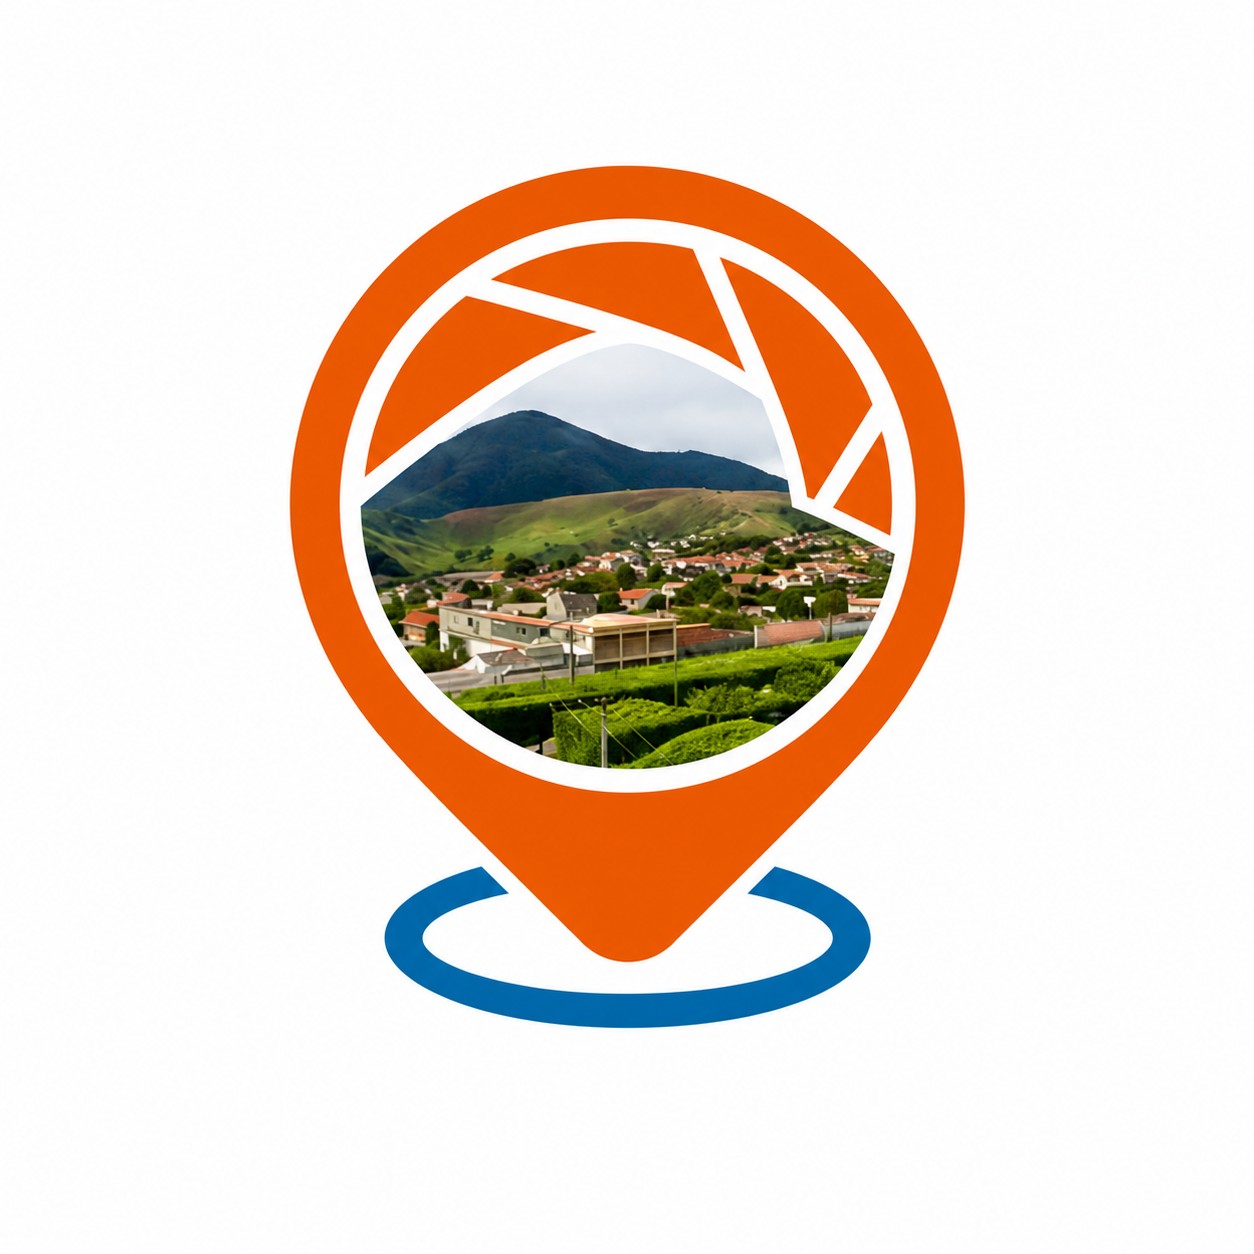
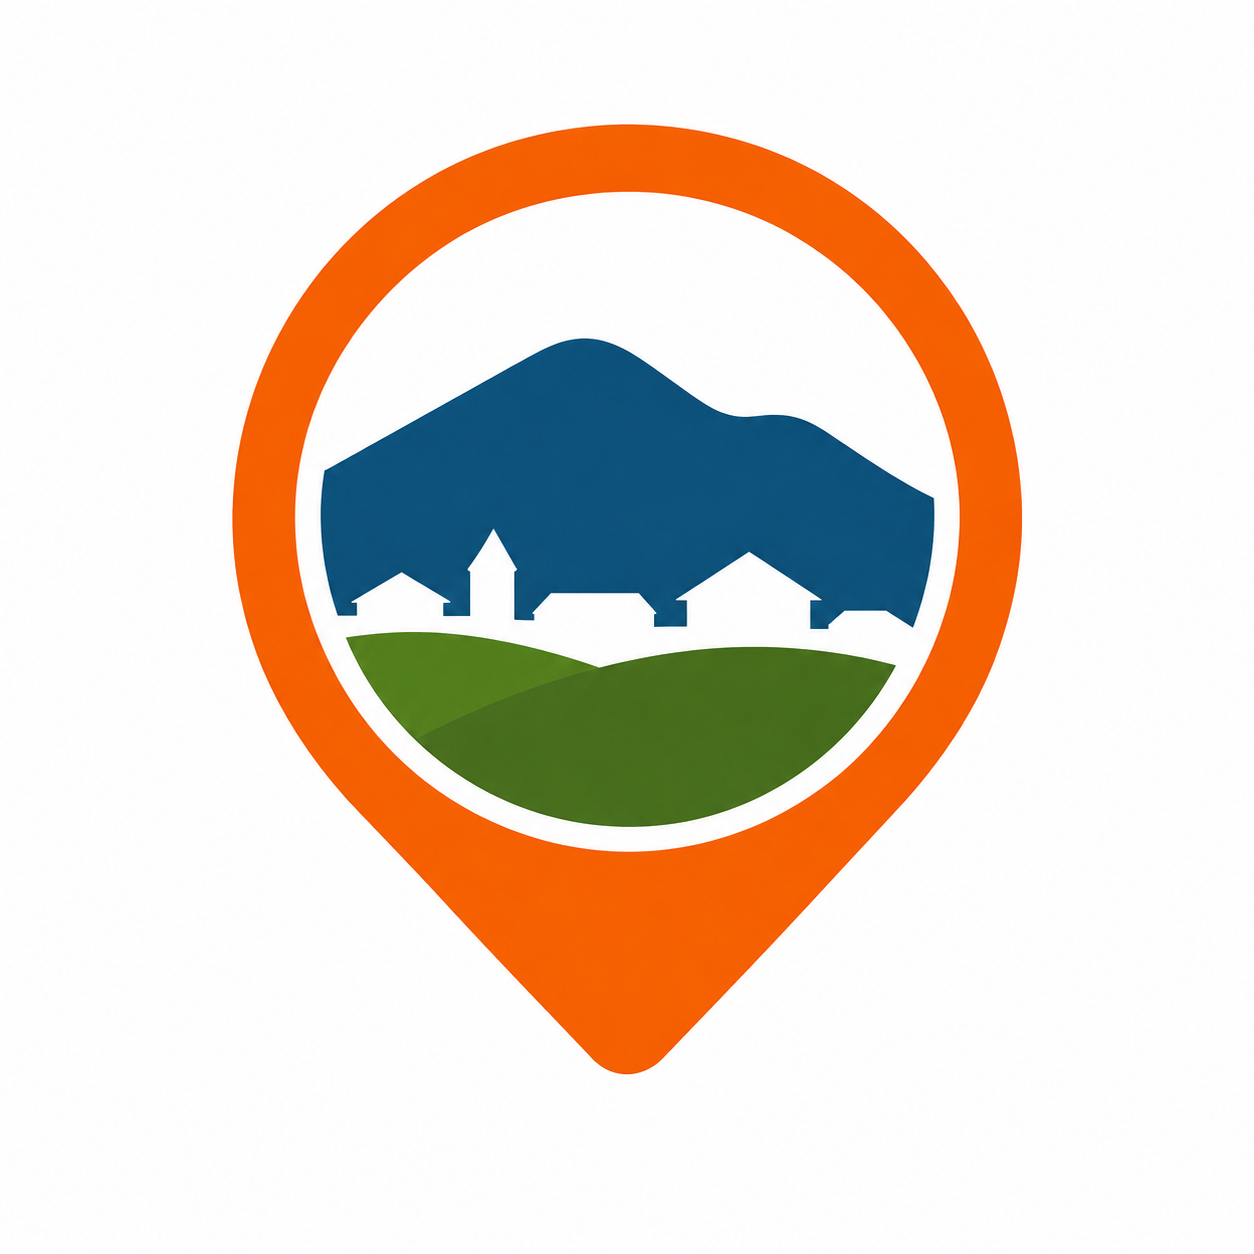
Finaliza identidade e fluxo do ClickCidade

diff --git a/assets/styles.css b/assets/styles.css
@@ -66,12 +66,12 @@ button:disabled {
   align-items: center;
   justify-content: center;
   border: 2px solid #fff;
-  border-radius: 50%;
+  border-radius: var(--radius);
   background-color: #fff;
-  background-image: url("./clickcidade-logo.png?v=20260627-map-colors");
-  background-position: -21px -32px;
+  background-image: url("./clickcidade-app-icon.png?v=20260628-final-logo");
+  background-position: center;
   background-repeat: no-repeat;
-  background-size: 220px auto;
+  background-size: cover;
   box-shadow: 0 3px 10px rgba(38, 50, 56, .16);
 }
 
@@ -182,32 +182,37 @@ a.secondary-button {
 }
 
 .citizen-header {
-  padding: 14px 2px 18px;
+  padding: 6px 0 14px;
 }
 
-.citizen-header .brand-mark {
-  width: 68px;
-  height: 68px;
-  background-position: -30px -46px;
-  background-size: 320px auto;
+.mobile-logo-frame {
+  width: calc(100% - 24px);
+  max-width: 536px;
+  aspect-ratio: 3 / 1;
+  overflow: hidden;
+  margin: 0 auto;
 }
 
-.citizen-header h1 {
-  margin: 12px 0 4px;
-  font-size: 34px;
-  line-height: 1.05;
-  letter-spacing: 0;
+.citizen-mobile-logo {
+  display: block;
+  width: 100%;
+  height: 100%;
+  object-fit: contain;
 }
 
-.citizen-header p {
-  margin: 0;
-  color: var(--muted);
-  font-size: 15px;
+.visually-hidden {
+  position: absolute !important;
+  width: 1px !important;
+  height: 1px !important;
+  overflow: hidden !important;
+  clip: rect(0 0 0 0) !important;
+  white-space: nowrap !important;
+  clip-path: inset(50%) !important;
 }
 
 .install-button {
   min-height: 38px;
-  margin-top: 12px;
+  margin-top: 8px;
   padding: 8px 12px;
 }
 
@@ -293,6 +298,20 @@ a.secondary-button {
 
 .photo-button {
   width: 100%;
+}
+
+.citizen-form .photo-button,
+.citizen-form #locationButton {
+  border-color: var(--primary);
+  background: var(--primary);
+  color: #fff;
+}
+
+.citizen-form .photo-button:hover,
+.citizen-form #locationButton:hover {
+  border-color: var(--primary-dark);
+  background: var(--primary-dark);
+  color: #fff;
 }
 
 .photo-preview {
@@ -408,8 +427,6 @@ a.secondary-button {
 .login-box .brand-mark {
   width: 60px;
   height: 60px;
-  background-position: -27px -41px;
-  background-size: 285px auto;
 }
 
 .login-box .primary-button {
@@ -544,7 +561,7 @@ a.secondary-button {
 }
 
 .stat-card:nth-child(4) {
-  border-top: 3px solid var(--blue);
+  border-top: 3px solid #79513a;
 }
 
 .stat-card span {

diff --git a/index.html b/index.html
@@ -9,17 +9,16 @@
   <title>ClickCidade</title>
   <link rel="manifest" href="./manifest.webmanifest">
   <link rel="apple-touch-icon" href="./assets/clickcidade-app-icon.png">
-  <link rel="stylesheet" href="./assets/styles.css?v=20260627-map-colors">
+  <link rel="stylesheet" href="./assets/styles.css?v=20260628-final-logo">
 </head>
 <body class="citizen-page">
   <main class="citizen-shell">
     <header class="citizen-header">
-      <div>
-        <span class="brand-mark" aria-label="ClickCidade"></span>
-        <h1>ClickCidade</h1>
-        <p>FotoDenuncia de lixo, foco de dengue e terreno baldio.</p>
-        <button class="secondary-button install-button" type="button" id="installButton" hidden>Instalar ClickCidade</button>
+      <div class="mobile-logo-frame">
+        <img class="citizen-mobile-logo" src="./assets/clickcidade-mobile-logo.png" alt="ClickCidade - FotoDenuncia">
       </div>
+      <h1 class="visually-hidden">ClickCidade</h1>
+      <button class="secondary-button install-button" type="button" id="installButton" hidden>Instalar ClickCidade</button>
     </header>
 
     <form class="citizen-form" id="reportForm">
@@ -51,12 +50,12 @@
       <section class="citizen-card">
         <div class="location-row">
           <div>
-            <span class="field-label">Localizacao</span>
-            <p id="locationStatus">Aguardando GPS.</p>
+            <span class="field-label">Localizacao obrigatoria</span>
+            <p id="locationStatus">Toque em Usar GPS para confirmar o local.</p>
           </div>
           <button class="secondary-button" type="button" id="locationButton">Usar GPS</button>
         </div>
-        <label class="field-label small-label" for="referenceInput">Referencia, se precisar</label>
+        <label class="field-label small-label" for="referenceInput">Referencia opcional</label>
         <textarea id="referenceInput" rows="2" maxlength="240" placeholder="Ex.: perto da escola, rua, bairro ou ponto conhecido"></textarea>
       </section>
 
@@ -85,7 +84,7 @@
     </section>
   </main>
 
-  <script src="./assets/runtime-config.js?v=20260627-map-colors"></script>
-  <script src="./assets/app.js?v=20260627-map-colors"></script>
+  <script src="./assets/runtime-config.js?v=20260628-final-logo"></script>
+  <script src="./assets/app.js?v=20260628-final-logo"></script>
 </body>
 </html>

diff --git a/painel.html b/painel.html
@@ -6,7 +6,7 @@
   <meta name="theme-color" content="#263238">
   <title>Painel ClickCidade</title>
   <link rel="stylesheet" href="https://unpkg.com/leaflet@1.9.4/dist/leaflet.css" integrity="sha256-p4NxAoJBhIIN+hmNHrzRCf9tD/miZyoHS5obTRR9BMY=" crossorigin="">
-  <link rel="stylesheet" href="./assets/styles.css?v=20260627-map-colors">
+  <link rel="stylesheet" href="./assets/styles.css?v=20260628-final-logo">
 </head>
 <body class="panel-page">
   <div class="login-screen" id="loginScreen">
@@ -52,9 +52,9 @@
 
       <section class="stats-grid" id="overview">
         <article class="stat-card"><span>Total</span><strong id="statTotal">0</strong></article>
-        <article class="stat-card"><span>Novas</span><strong id="statNew">0</strong></article>
+        <article class="stat-card"><span>Lixo</span><strong id="statTrash">0</strong></article>
         <article class="stat-card"><span>Dengue</span><strong id="statDengue">0</strong></article>
-        <article class="stat-card"><span>Sem GPS</span><strong id="statNoGps">0</strong></article>
+        <article class="stat-card"><span>Terreno baldio</span><strong id="statLand">0</strong></article>
       </section>
 
       <section class="attention-section" id="attentionPanel">
@@ -271,8 +271,8 @@
 
   <script src="https://unpkg.com/leaflet@1.9.4/dist/leaflet.js" integrity="sha256-20nQCchB9co0qIjJZRGuk2/Z9VM+kNiyxNV1lvTlZBo=" crossorigin=""></script>
   <script src="https://unpkg.com/leaflet.heat@0.2.0/dist/leaflet-heat.js" integrity="sha256-65UqrlgGoRAnKfKRuriH3eeDrOhZgZo1SCenduc+SGo=" crossorigin=""></script>
-  <script src="./assets/runtime-config.js?v=20260627-map-colors"></script>
+  <script src="./assets/runtime-config.js?v=20260628-final-logo"></script>
   <script src="./assets/carmo-territorios-data.js"></script>
-  <script src="./assets/painel.js?v=20260627-map-colors"></script>
+  <script src="./assets/painel.js?v=20260628-final-logo"></script>
 </body>
 </html>

diff --git a/sw.js b/sw.js
@@ -1,12 +1,13 @@
-var CACHE_NAME = "clickcidade-20260627-map-colors";
+var CACHE_NAME = "clickcidade-20260628-final-logo";
 var APP_SHELL = [
   "./",
   "./index.html",
   "./manifest.webmanifest",
-  "./assets/styles.css?v=20260627-map-colors",
-  "./assets/runtime-config.js?v=20260627-map-colors",
-  "./assets/app.js?v=20260627-map-colors",
+  "./assets/styles.css?v=20260628-final-logo",
+  "./assets/runtime-config.js?v=20260628-final-logo",
+  "./assets/app.js?v=20260628-final-logo",
   "./assets/clickcidade-logo.png",
+  "./assets/clickcidade-mobile-logo.png",
   "./assets/clickcidade-app-icon.png"
 ];
 

diff --git a/assets/painel.js b/assets/painel.js
@@ -291,9 +291,9 @@
   function buildStats(reports) {
     return {
       total: reports.length,
-      newCount: reports.filter(function (item) { return item.status === "nova"; }).length,
+      trash: reports.filter(function (item) { return item.category === "lixo"; }).length,
       dengue: reports.filter(function (item) { return item.category === "dengue"; }).length,
-      noGps: reports.filter(function (item) { return !(item.latitude && item.longitude); }).length
+      land: reports.filter(function (item) { return item.category === "terreno"; }).length
     };
   }
 
@@ -454,9 +454,9 @@
   function renderStats() {
     var stats = buildStats(state.reports);
     $("statTotal").textContent = stats.total;
-    $("statNew").textContent = stats.newCount;
+    $("statTrash").textContent = stats.trash;
     $("statDengue").textContent = stats.dengue;
-    $("statNoGps").textContent = stats.noGps;
+    $("statLand").textContent = stats.land;
     $("listSummary").textContent = state.filtered.length + " de " + state.reports.length + " denuncias";
     $("mapSummary").textContent = state.filtered.filter(function (item) { return item.latitude && item.longitude; }).length + " pontos com GPS no mapa.";
   }

diff --git a/assets/app.js b/assets/app.js
@@ -147,7 +147,7 @@
     $("reportForm").reset();
     $("photoPreview").hidden = true;
     $("photoPreview").removeAttribute("src");
-    $("locationStatus").textContent = "Aguardando GPS.";
+    $("locationStatus").textContent = "Toque em Usar GPS para confirmar o local.";
     state.photoDataUrl = "";
     state.photoName = "";
     state.photoMime = "";
@@ -241,8 +241,8 @@
       return;
     }
 
-    if (!state.location && reference.length < 4) {
-      setMessage("Use o GPS ou informe uma referencia.", "error");
+    if (!state.location) {
+      setMessage("Confirme a localizacao pelo GPS antes de enviar.", "error");
       return;
     }
 

diff --git a/assets/runtime-config.js b/assets/runtime-config.js
@@ -2,7 +2,7 @@
   "use strict";
 
   window.CLICKCIDADE_CONFIG = Object.assign({}, window.CLICKCIDADE_CONFIG || {}, {
-    BUILD_VERSION: "20260627-map-colors",
+    BUILD_VERSION: "20260628-final-logo",
     API_URL: "https://script.google.com/macros/s/AKfycbz4oa5pJifdyHJU_6ywWRGaupbkiIWx7m0uIAVJ83W8fdKEGP1aV2zJliKWit7rmeEYqg/exec",
     MAP_CENTER: [-21.9325, -42.6075],
     MAP_ZOOM: 13,

diff --git a/README.md b/README.md
@@ -39,6 +39,7 @@ Nunca coloque senha real dentro dos arquivos do GitHub.
 ## Recursos atuais
 
 - Identificacao e telefone opcionais.
+- Localizacao por GPS obrigatoria.
 - Comprovante com protocolo para o cidadao.
 - Mapa em ruas, relevo ou satelite.
 - Fila de prioridade, prazos e tempo aberto.